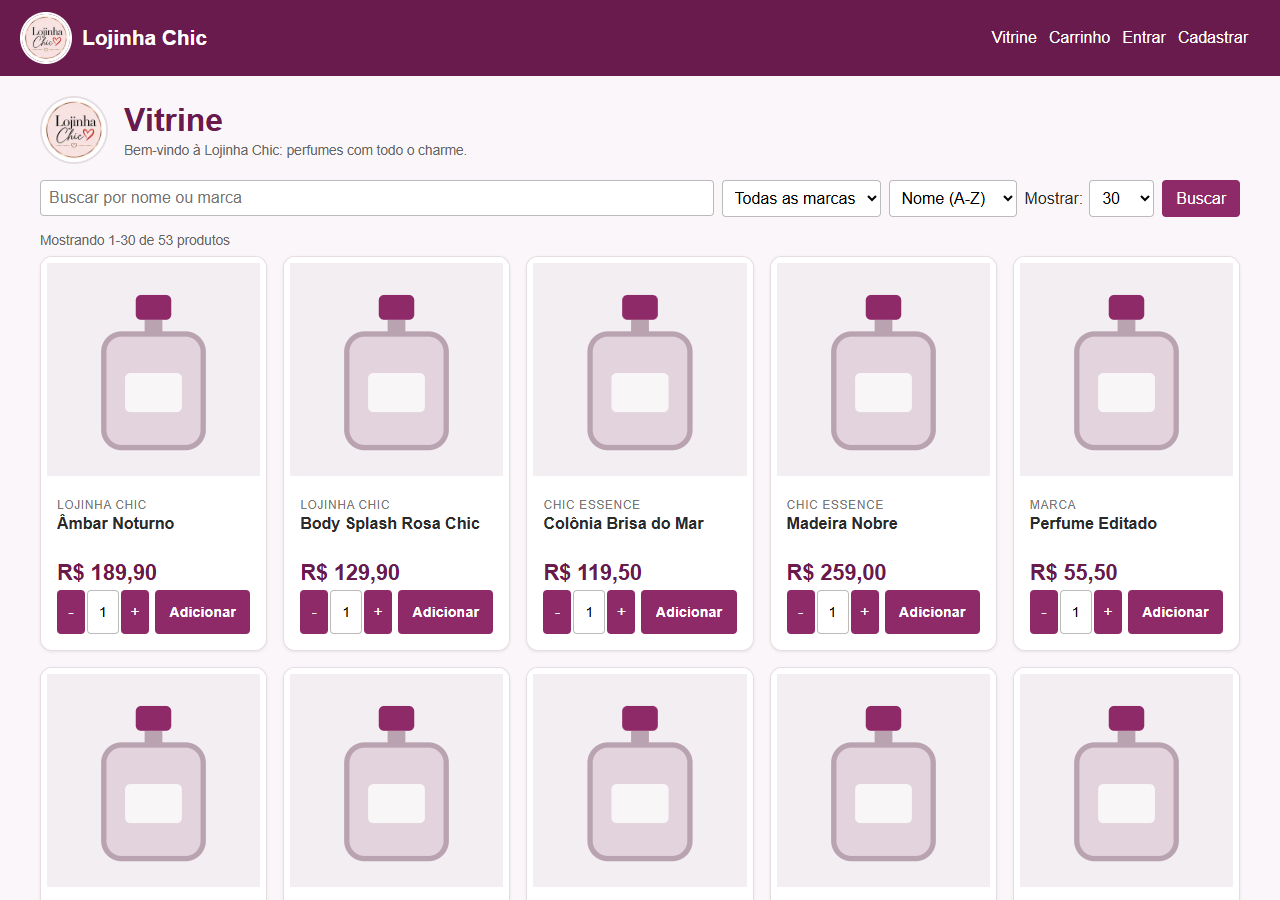
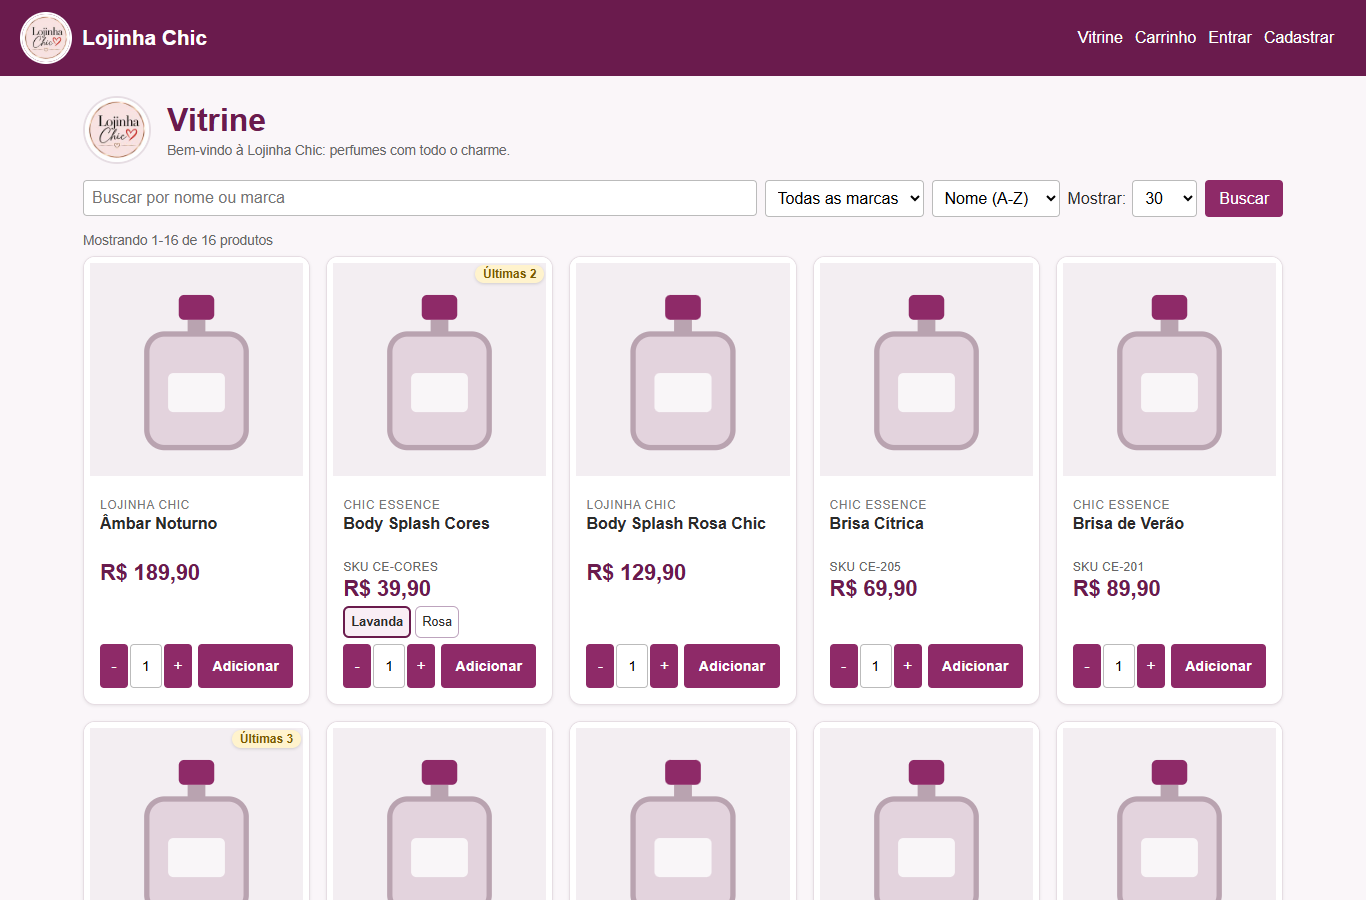
Docs final: README para o GitHub (badge do CI, sumario, rotas por papel, arquitetura apos a divisao do PerfumeService, SITE_URL), 11 prints novos (1366px e 390px) e .env.example sem dominio inventado

diff --git a/README.md b/README.md
@@ -1,10 +1,11 @@
 # Lojinha Chic - Loja de Perfumes
 
-Trabalho Avaliação 02 da disciplina **Linguagem de Programação 1**.
+[![CI](https://github.com/JoaoFinotiDev/Perfumes/actions/workflows/ci.yml/badge.svg)](https://github.com/JoaoFinotiDev/Perfumes/actions/workflows/ci.yml)
+
+Loja virtual de perfumes feita com **Node.js, Express, EJS, CSS e MySQL**: vitrine, carrinho com 5% de desconto para clientes, venda no balcão com código de barras e gestão de produtos com variações. Trabalho Avaliação 02 da disciplina **Linguagem de Programação 1**.
 
 | | |
 |---|---|
-| **Tema** | Loja de perfumes estilo marketplace: vitrine, carrinho, login de Cliente, Vendedor e Admin, venda no balcão com código de barras |
 | **Integrantes** | João Vitor Vieira Finoti e João Pedro Camargo Machado |
 | **Disciplina** | Linguagem de Programação 1 |
 | **Professor** | Leandro Luis Pauro |
@@ -16,16 +17,18 @@ Trabalho Avaliação 02 da disciplina **Linguagem de Programação 1**.
 ## Sumário
 
 1. [Tecnologias](#tecnologias)
-2. [Como instalar e rodar](#como-instalar-e-rodar)
+2. [Como rodar](#como-rodar)
 3. [Usuários para testar](#usuários-para-testar)
 4. [Funcionalidades por papel](#funcionalidades-por-papel)
-5. [Onde estão os requisitos do PDF](#onde-estão-os-requisitos-do-pdf)
-6. [Arquitetura, POO e SOLID](#arquitetura-poo-e-solid)
+5. [Rotas e quem pode usar](#rotas-e-quem-pode-usar)
+6. [Onde estão os requisitos do PDF](#onde-estão-os-requisitos-do-pdf)
 7. [Telas](#telas)
-8. [Importadores (Mawwal e Queen)](#importadores-mawwal-e-queen)
-9. [Testes](#testes)
-10. [Limites conhecidos](#limites-conhecidos)
-11. [Histórico](#histórico)
+8. [Arquitetura, POO e SOLID](#arquitetura-poo-e-solid)
+9. [Prévia do link (LinkedIn, WhatsApp)](#prévia-do-link-linkedin-whatsapp)
+10. [Importadores (Mawwal e Queen)](#importadores-mawwal-e-queen)
+11. [Testes](#testes)
+12. [Limites conhecidos](#limites-conhecidos)
+13. [Histórico](#histórico)
 
 ## Tecnologias
 
@@ -37,8 +40,9 @@ Trabalho Avaliação 02 da disciplina **Linguagem de Programação 1**.
 | Banco | MySQL com o pacote `mysql2` |
 | Login | `express-session` com a sessão guardada no MySQL (`express-mysql-session`) e senhas com `bcryptjs` |
 | Configuração | `dotenv` (arquivo `.env`) |
+| Testes | `node --test` (sem banco e sem rede) e `tests/e2e.js` (com o servidor no ar) |
 
-## Como instalar e rodar
+## Como rodar
 
 Precisa do Node.js 18+ e do MySQL ligado.
 
@@ -46,10 +50,11 @@ Precisa do Node.js 18+ e do MySQL ligado.
 # 1) Dependências
 npm install
 
-# 2) Banco: cria o banco loja_perfumes, as tabelas e os produtos de exemplo
+# 2) Banco: cria o banco loja_perfumes, as tabelas, o admin e os produtos de exemplo
 mysql -u root -p < script.sql
 
-# 3) Migrações, EM ORDEM (só para banco criado antes delas; podem rodar de novo sem apagar nada)
+# 3) Migrações, EM ORDEM. Só são necessárias num banco criado ANTES delas
+#    (o script.sql novo já tem tudo). Podem rodar de novo: não apagam nada.
 mysql -u root -p < migracoes/001-visivel.sql
 mysql -u root -p < migracoes/002-variacoes-sku-pontos.sql
 mysql -u root -p < migracoes/003-sessoes.sql
@@ -64,99 +69,156 @@ npm run dev        # desenvolvimento: o nodemon reinicia ao salvar um .js do ser
 
 Abra http://localhost:3000.
 
-O `.env` tem `DB_HOST`, `DB_USER`, `DB_PASSWORD`, `DB_NAME`, `SESSION_SECRET` e `KODEBAR_TOKEN` (opcional). Ele nunca vai para o GitHub.
+Variáveis do `.env` (o modelo está em `.env.example`; o `.env` nunca vai para o GitHub):
 
-**Antes de publicar:** preencha `SESSION_SECRET` com um texto longo e aleatório. Com `NODE_ENV=production` o app não sobe sem ele. Em desenvolvimento, sem ele, o app cria um segredo no arquivo `.segredo-dev` (fora do git).
+| Variável | Para que serve |
+|---|---|
+| `DB_HOST`, `DB_USER`, `DB_PASSWORD`, `DB_NAME` | Conexão com o MySQL (lidas por `config/db.js`) |
+| `SESSION_SECRET` | Segredo que assina o cookie de login. Em produção (`NODE_ENV=production`) o app não sobe sem ele. Em desenvolvimento, vazio, o app cria um segredo fixo em `.segredo-dev` (fora do git) |
+| `KODEBAR_TOKEN` | Opcional. Busca de dados pelo código de barras no cadastro de produto |
+| `SITE_URL` | Opcional. Endereço usado na prévia do link (veja [Prévia do link](#prévia-do-link-linkedin-whatsapp)) |
 
 ## Usuários para testar
 
 | Papel | Como conseguir |
 |---|---|
-| **Admin** | Usuário `admin`, senha `admin` (criado pelo `script.sql`). **Troque essa senha** antes de publicar: ela está no repositório. |
-| **Vendedor** | Entre como Admin, abra o menu **Vendedores** e preencha nome, usuário e senha (mínimo 6). |
-| **Cliente** | Clique em **Cadastrar** na barra do topo. O cliente já entra logado. |
+| **Admin** | Usuário `admin`, senha `admin` (criado pelo `script.sql`). |
+| **Vendedor** | Entre como Admin, abra **Vendedores** e preencha nome, usuário e senha (mínimo 6). |
+| **Cliente** | Clique em **Cadastrar** no topo. O cliente já entra logado. |
+
+> A senha `admin` é pública (está no `script.sql`). Use este acesso só para testar e avaliar o trabalho.
 
 ## Funcionalidades por papel
 
 | Funcionalidade | Visitante | Cliente | Vendedor | Admin |
 |---|:---:|:---:|:---:|:---:|
-| Vitrine, busca, filtro por marca, ordem e paginação (30/50/100) | Sim | Sim | Sim | Sim |
-| Página do produto com variações (chips) | Sim | Sim | Sim | Sim |
-| Desconto de 5% (preço antigo riscado) | - | Sim | - | - |
-| Carrinho e compra simulada (Pix, crédito, débito, dinheiro) | Vai para o login | Sim | - | - |
+| Vitrine: busca, filtro por marca, ordem e paginação (30/50/100) | Sim | Sim | Sim | Sim |
+| Página do produto com variações (chips) e zoom da foto | Sim | Sim | Sim | Sim |
+| Desconto de 5% (preço antigo riscado, "Você economizou") | - | Sim | - | - |
+| Carrinho: quantidade editável (até o estoque) e compra simulada | Vai para o login | Sim | - | - |
+| Comprovante da compra (`/compras/:id`), só do dono | - | Sim | - | - |
 | Tabela `GET /itens` | - | - | Sim | Sim |
 | Novo anúncio `POST /itens` | - | - | Sim | - |
-| Gerenciar produtos: editar, variações, estoque -1/+1, ocultar/mostrar | - | - | Sim | Sim |
+| Gerenciar produtos: variações, estoque compacto, ocultar/mostrar, editar | - | - | Sim | Sim |
 | Abrir venda no balcão (código de barras, busca, cliente opcional) | - | - | Sim | - |
 | Criar vendedores | - | - | - | Sim |
 
-Quem barra de verdade é o servidor (middlewares `exigirCliente` e `exigirPapel` em `middlewares/auth.js`). O menu só esconde os links.
+Depois do login, a pessoa volta para a página que pediu o login (por exemplo, o produto que tentou pôr no carrinho). Só vale caminho deste site: `utils/caminho.js` recusa `//outro-site` e endereços externos.
+
+## Rotas e quem pode usar
+
+Quem barra é o servidor (`middlewares/auth.js`): visitante vai para o login e papel errado recebe **403**. O menu só esconde os links.
+
+| Rotas | Quem entra |
+|---|---|
+| `GET /`, `GET /produto/:id`, `GET /api/produtos` | Todos (produto oculto só para Vendedor/Admin) |
+| `GET/POST /login`, `GET/POST /cadastro`, `POST /logout` | Todos |
+| `/carrinho`, `/carrinho/adicionar`, `/carrinho/quantidade`, `/carrinho/remover`, `/carrinho/finalizar` | Só Cliente |
+| `GET /compras/:id` | Só Cliente, e só o dono da compra (os outros recebem 404) |
+| `GET /itens` | Vendedor e Admin |
+| `POST /itens` | Só Vendedor |
+| `/vendedor/produtos/...` (lista, editar, estoque, visibilidade, variações) | Vendedor e Admin |
+| `/vendedor/venda/...`, `GET /api/produto-por-codigo/:codigo` | Só Vendedor |
+| `/admin`, `POST /admin/vendedores` | Só Admin |
+| Qualquer outro endereço | Página 404 com botão "Voltar à vitrine" |
 
 ## Onde estão os requisitos do PDF
 
 | Requisito | Onde |
 |---|---|
-| `script.sql` | `script.sql` (banco, tabelas e dados de exemplo das marcas fictícias "Lojinha Chic" e "Chic Essence") |
-| Conexão com o banco | `config/db.js` (pool do `mysql2`, dados vindos do `.env`) |
-| `.env.example` | `.env.example` |
-| `GET /itens` | `routes/index.js` -> `controllers/CatalogoController.js` -> página EJS com tabela em `views/itens.ejs`. **Exige login de Vendedor ou Admin**: visitante vai para o login e Cliente recebe 403. |
-| `POST /itens` | Mesma rota. O formulário aparece em `/itens` para o Vendedor. O servidor valida tudo (`services/PerfumeService.js`, método `_validar`). |
-| CSS | `public/stylesheets/style.css` |
+| `script.sql` | [`script.sql`](script.sql): banco, tabelas, admin e produtos de exemplo das marcas fictícias "Lojinha Chic" e "Chic Essence" |
+| Conexão com o banco | [`config/db.js`](config/db.js): pool do `mysql2`, dados vindos do `.env` |
+| `.env.example` | [`.env.example`](.env.example) |
+| `GET /itens` | [`routes/index.js`](routes/index.js) -> [`controllers/CatalogoController.js`](controllers/CatalogoController.js) -> página EJS com tabela em [`views/itens.ejs`](views/itens.ejs). **Exige login de Vendedor ou Admin**: visitante vai para o login e Cliente recebe 403. |
+| `POST /itens` | Mesma rota. O formulário fica em `/itens` para o Vendedor (atalho "+ Novo anúncio" no topo). O servidor valida tudo em [`services/GestaoProdutosService.js`](services/GestaoProdutosService.js). |
+| CSS | [`public/stylesheets/style.css`](public/stylesheets/style.css) |
 | README e GitHub | Este arquivo, no repositório [JoaoFinotiDev/Perfumes](https://github.com/JoaoFinotiDev/Perfumes) |
+
+## Telas
+
+Prints feitos num banco de teste, com produtos fictícios e a imagem padrão da loja (sem fotos de terceiros nem dados de clientes reais). Computador com 1366px de largura e celular com 390px.
+
+| Vitrine no celular | Página do produto |
+|---|---|
+| ![Vitrine no celular: 2 colunas e menu numa linha](docs/prints/02-vitrine-celular.png) | ![Página do produto com chips de variação](docs/prints/03-produto.png) |
+
+| Carrinho | Comprovante da compra |
+|---|---|
+| ![Carrinho com quantidade editável e Você economizou](docs/prints/04-carrinho.png) | ![Comprovante da compra](docs/prints/05-comprovante.png) |
+
+**Abrir venda (Vendedor):** cliente escolhido (5% de desconto) e a 2ª busca para escolher a variação.
+
+![Abrir venda com a segunda busca](docs/prints/06-abrir-venda.png)
+
+**Gerenciar produtos:** variações abertas embaixo do produto e o estoque compacto `[ − ] [ campo ] [ + ] [Salvar]`.
+
+![Gerenciar produtos com variações abertas](docs/prints/07-gerenciar-produtos.png)
+
+**Catálogo `GET /itens`:** a tabela pedida no PDF, com o atalho "+ Novo anúncio".
+
+![Catálogo /itens](docs/prints/08-itens.png)
+
+| Login | Admin: vendedores | Página 404 |
+|---|---|---|
+| ![Login com mostrar senha](docs/prints/09-login.png) | ![Admin cria vendedores](docs/prints/10-admin-vendedores.png) | ![Página 404](docs/prints/11-404.png) |
+
+O que cada tela faz:
+
+- **Vitrine (`/`)**: cards com foto, marca, nome e preço. Filtro de marca, ordem e "Mostrar 30/50/100" aplicam ao escolher. Sem resultado aparece "Nenhum perfume encontrado." e o botão "Limpar filtros". O título da aba muda com a busca.
+- **Busca em lista**: ao clicar no campo, abre uma lista que filtra a cada letra. Setas andam, Enter escolhe, Esc fecha. Os dados vêm de `GET /api/produtos`, uma rota local.
+- **Página do produto**: chips de variação trocam preço e "Últimas N". Clicar na foto abre uma janela com zoom (Esc fecha).
+- **Carrinho**: quantidade editável, limitada ao estoque no servidor; "Você economizou R$ X"; "Continuar comprando". O botão "Finalizar compra" trava depois do clique.
+- **Comprovante (`/compras/:id`)**: itens, preços gravados na venda, desconto, total e forma de pagamento. Só o dono vê.
+- **Gerenciar produtos**: a seta abre as variações; cada uma tem estoque compacto, Ativar/Desativar e Editar. Variação inativa some da vitrine e de "Abrir venda", mas continua aqui.
+- **Celular**: tabelas rolam dentro de uma caixa, o menu do topo fica numa linha que rola para o lado e os botões têm 44px.
+- **Acessibilidade**: foco visível no Tab, avisos de erro em vermelho com `role="alert"`, sucesso em verde com `role="status"`, botão "Mostrar senha" no login e no cadastro.
+- **Código de barras**: no cadastro de produto, preenche nome, marca e foto pela API Kodebar (`KODEBAR_TOKEN`) e, se não achar, pelo Open Beauty Facts. Se a busca falhar, nada fica guardado no cache e dá para tentar de novo.
 
 ## Arquitetura, POO e SOLID
 
-O pedido passa por camadas. Cada uma faz só a sua parte:
+O pedido passa por camadas, e cada uma faz só a sua parte:
 
 ```
 routes -> middlewares -> controllers -> services -> domain + repositories -> config/db.js (MySQL)
 ```
 
-| Camada | Pasta | Trabalho |
-|---|---|---|
-| Rotas | `routes/` | Liga o endereço ao controller e ao middleware de papel |
-| Controllers | `controllers/` | Só HTTP: lê o pedido, chama o service, responde |
-| Services | `services/` | Regras do caso de uso (carrinho, venda, produtos, login) |
-| Domínio | `domain/` | Classes com as regras: `Perfume`, `Variacao`, `Carrinho`, `Venda`, `Usuario`, `Desconto`, `Paginacao` |
-| Repositórios | `repositories/` | Todo o SQL, com consultas parametrizadas (`?`) |
-| Montagem | `container.js` | Cria os objetos e entrega um para o outro (injeção de dependência) |
+```
+.
+├── app.js, bin/www         servidor Express (views, sessão, rotas)
+├── container.js            cria os objetos e entrega um para o outro (injeção de dependência)
+├── config/                 db.js (pool MySQL), sessao.js (login no MySQL), segredo.js (SESSION_SECRET)
+├── routes/                 index.js, produtos.js, vendedor.js, admin.js
+├── middlewares/            auth.js (papéis, aviso, usuário), erros.js (página de erro)
+├── controllers/            só HTTP: lê o pedido, chama o service, responde
+├── services/               PerfumeService (consultas comuns), VitrineService, GestaoProdutosService,
+│                           CarrinhoService, VendaService, AuthService
+├── domain/                 Perfume, Variacao, Carrinho, Venda, Usuario, Desconto, Paginacao
+├── repositories/           todo o SQL, com parâmetros (?)
+├── buscadores/             busca por código de barras (Kodebar, Open Beauty Facts, cadeia, cache)
+├── utils/                  validacao, moeda, erros, aviso, caminho, html, ligar
+├── views/                  telas EJS (partials/ com topo, rodapé, compra do card e tabela do carrinho)
+├── public/                 CSS, JavaScript do navegador e imagens
+├── scripts/                importadores de catálogo (Mawwal e Queen)
+├── migracoes/              mudanças para bancos já existentes (001, 002, 003)
+├── tests/                  testes sem banco (*.test.js) e o e2e.js
+└── docs/prints/            prints deste README
+```
 
 Exemplos de POO e SOLID no código:
 
-1. **`domain/Usuario.js`** (herança e polimorfismo): `Cliente`, `Vendedor` e `Admin` herdam de `Usuario`. Cada um responde do seu jeito a `estrategiaDesconto()`, `podeGerenciar()` e `podeUsarCarrinho()`. Ninguém precisa de `if (papel === ...)` espalhado.
-2. **`domain/Desconto.js`** (Strategy, aberto/fechado): `SemDesconto` e `DescontoCliente` herdam de `EstrategiaDesconto`. Um desconto novo é uma classe nova, sem mexer no carrinho.
-3. **`container.js`** (inversão de dependência): os controllers e services recebem o que usam pelo construtor. Os testes trocam o banco por um repositório falso.
-4. **`buscadores/BuscadorEmCadeia.js`** (substituição de Liskov): `KodebarBuscador` e `OpenBeautyFactsBuscador` têm o mesmo método `buscar(codigo)` e podem ser trocados ou encadeados. `BuscadorComCache` embrulha qualquer um deles.
-5. **`repositories/VendaRepository.js`** (responsabilidade única): só grava a venda e baixa o estoque, numa transação. A regra do total fica em `domain/Venda.js`.
+1. **`domain/Usuario.js`** (herança e polimorfismo): `Cliente`, `Vendedor` e `Admin` herdam de `Usuario`. O sistema pergunta ao objeto (`ehCliente()`, `podeGerenciar()`, `estrategiaDesconto()`) em vez de comparar texto. Os nomes dos papéis ficam só em `PAPEIS`.
+2. **`domain/Desconto.js`** (Strategy, aberto/fechado): `SemDesconto` e `DescontoCliente` herdam de `EstrategiaDesconto`. Um desconto novo é uma classe nova; o "5%" das telas vem de `emPorcento()`.
+3. **`services/`** (responsabilidade única): o antigo `PerfumeService` foi dividido. `PerfumeService` tem só as consultas comuns; `VitrineService` cuida do que o comprador vê; `GestaoProdutosService` cuida de criar, editar, estoque e variações.
+4. **`container.js`** (inversão de dependência): controllers e services recebem o que usam pelo construtor. Os testes trocam o banco por um repositório falso.
+5. **`buscadores/BuscadorEmCadeia.js`** (substituição de Liskov): `KodebarBuscador` e `OpenBeautyFactsBuscador` têm o mesmo `buscar(codigo)` e podem ser trocados ou encadeados. `BuscadorComCache` embrulha qualquer um deles.
 
-## Telas
+## Prévia do link (LinkedIn, WhatsApp)
 
-| Vitrine no celular | Carrinho com desconto de 5% |
-|---|---|
-| ![Vitrine no celular, 2 colunas](docs/prints/02-vitrine-celular.png) | ![Carrinho com desconto](docs/prints/04-carrinho.png) |
+Cada página tem as meta tags Open Graph e Twitter (título, descrição e logo). Essas redes pedem o endereço **completo** da imagem, que vem de `SITE_URL`:
 
-**Abrir venda (Vendedor):** produto com variação abre uma 2ª busca, e a variação esgotada aparece desativada.
-
-![Abrir venda com a segunda busca](docs/prints/05-abrir-venda-2a-busca.png)
-
-**Gerenciar produtos:** estoque -1/+1, editar e ocultar/mostrar na vitrine.
-
-![Gerenciar produtos](docs/prints/06-gerenciar-produtos.png)
-
-**`GET /itens`:** a tabela pedida no PDF, com o botão "Ver mais" para descrições longas.
-
-![Tabela /itens](docs/prints/07-itens.png)
-
-Os prints usam só produtos de exemplo de um banco de teste, com a imagem padrão da loja.
-
-Detalhes das telas:
-
-- **Vitrine (`/`)**: cards com foto, marca, nome e preço. Filtro de marca, ordem e "Mostrar 30/50/100" aplicam ao escolher. A paginação fica em `domain/Paginacao.js`.
-- **Busca em lista**: ao clicar no campo, abre uma lista que filtra a cada letra. Setas andam, Enter escolhe, Esc fecha. Os dados vêm de `GET /api/produtos`, uma rota local (só o nosso banco).
-- **Variações**: um produto pode ter tamanhos ou cores, cada um com preço e estoque. Os chips trocam o preço e o aviso "Últimas N". O campo de quantidade vai até o estoque.
-- **Carrinho**: o servidor confere tudo de novo. Se passar do estoque, avisa quantos já estão no carrinho, por exemplo: "Você já tem 3 de "X" no carrinho e só temos 3 em estoque."
-- **Código de barras**: no cadastro de produto, preenche nome, marca e foto pela API Kodebar (`KODEBAR_TOKEN`) e, se não achar, pelo Open Beauty Facts. Sem token ou sem internet, basta digitar.
-- **Sessão no MySQL**: reiniciar o servidor não tira ninguém do login (8 horas; "Sair" apaga a sessão).
+- `SITE_URL` é **opcional**. Vazio, o site usa o endereço que chegou no pedido (ex.: `http://localhost:3000` no seu PC).
+- Para a prévia funcionar **fora da sua rede**, coloque o endereço que abre de fora, por exemplo `SITE_URL=http://IP-EXTERNO:3000` (troque `IP-EXTERNO` pelo IP externo da máquina que roda o site).
+- A prévia do LinkedIn **só aparece se esse endereço abrir pela internet**. Se não abrir, o post mostra só o texto ou o vídeo.
 
 ## Importadores (Mawwal e Queen)
 
@@ -172,24 +234,29 @@ Scripts opcionais para encher o catálogo com produtos reais. Eles **só adicion
 ## Testes
 
 ```bash
-npm test        # regras de domínio, services e views, sem banco e sem internet
-npm run e2e     # ponta a ponta: precisa do servidor no ar e do banco com o script.sql
-npm run e2e -- http://localhost:3100   # o e2e aceita outro endereço
+npm test                                 # todos os tests/*.test.js: regras, services, views e rotas, sem banco e sem rede
+npm run e2e                              # ponta a ponta: precisa do servidor no ar e do banco com o script.sql
+npm run e2e -- http://localhost:3100     # o e2e aceita outro endereço
 ```
 
-O `tests/e2e.js` usa só o servidor local e o MySQL. Ele não chama nenhuma API externa e cria usuários e vendas de teste no banco configurado, então rode num banco de teste.
+- `npm test` acha sozinho todo arquivo `tests/*.test.js` (não há lista para manter).
+- O `tests/e2e.js` usa só o servidor local e o MySQL. Ele não chama nenhuma API externa e cria usuários e vendas de teste no banco configurado, então rode num **banco de teste**.
+- O GitHub Actions (badge no topo) roda `node --check` em todos os `.js` e o `npm test` a cada push e PR.
 
 ## Limites conhecidos
 
 Trabalho acadêmico. Para uma versão de produção faltariam:
 
+- **Senha do admin**: é `admin` e é pública. Serve para a avaliação; num site de verdade seria trocada no primeiro acesso.
 - **CSRF**: os formulários não têm token. A proteção é o cookie com `sameSite: 'lax'`.
 - **Tentativas de login**: não há limite. Em produção, limitar por IP ou usuário.
-- **Carrinho**: cada linha faz uma consulta ao banco. Bom para carrinhos pequenos.
 - **Pagamento**: é só simulado.
+- **Carrinho**: cada linha faz uma consulta ao banco. Bom para carrinhos pequenos.
 - **Permissão de produto**: qualquer Vendedor edita qualquer produto (a loja é uma só). A regra fica em `Usuario.podeGerenciar()`.
+- **Prévia do link**: depende de um endereço que abra pela internet (veja `SITE_URL`).
+- **Zoom da foto**: usa `<dialog>`; num navegador sem ele, o link só abre a foto inteira.
 
 ## Histórico
 
-- Lista de pull requests fechados: [PRs fechados](https://github.com/JoaoFinotiDev/Perfumes/pulls?q=is%3Apr+is%3Aclosed)
-- Todos os commits: [commits da main](https://github.com/JoaoFinotiDev/Perfumes/commits/main)
+- Pull requests fechados: [lista de PRs fechados](https://github.com/JoaoFinotiDev/Perfumes/pulls?q=is%3Apr+is%3Aclosed)
+- Histórico de commits: [commits da main](https://github.com/JoaoFinotiDev/Perfumes/commits/main)
